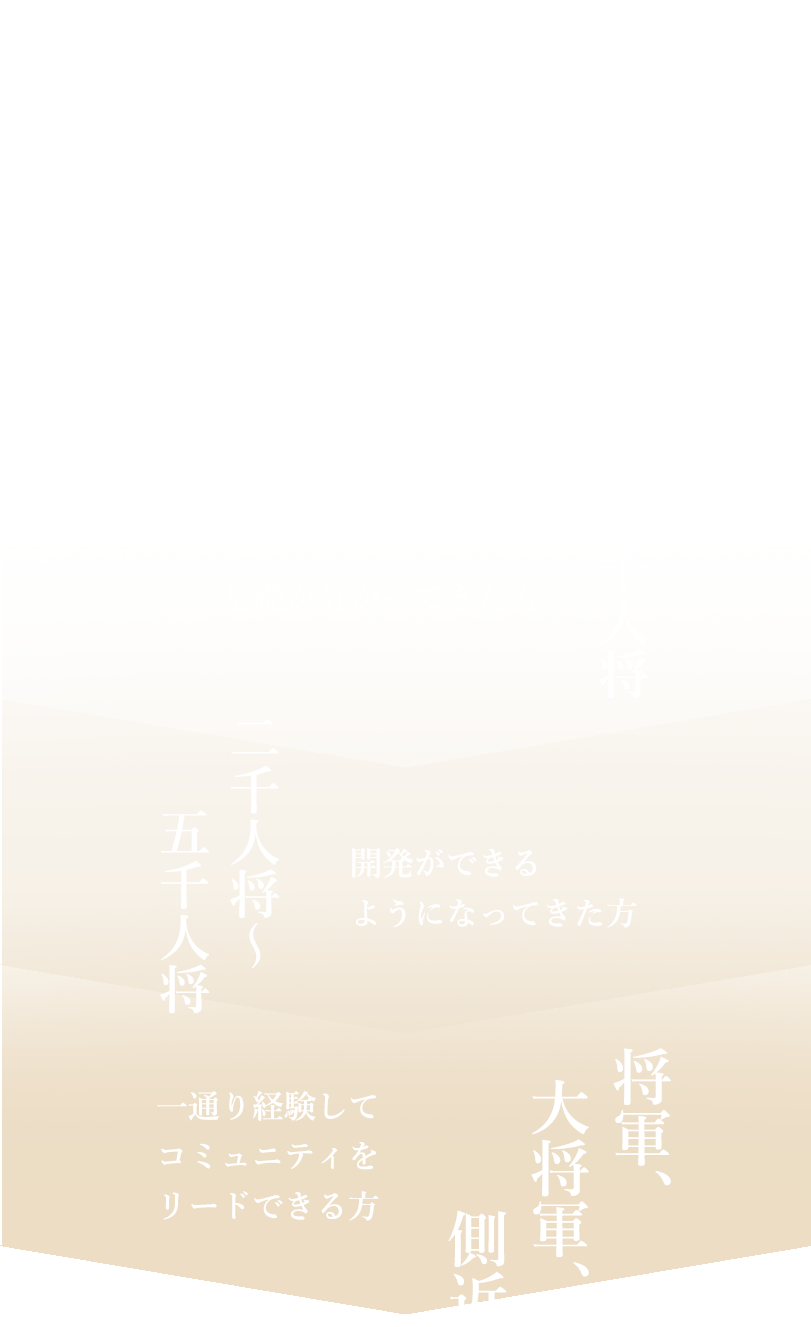
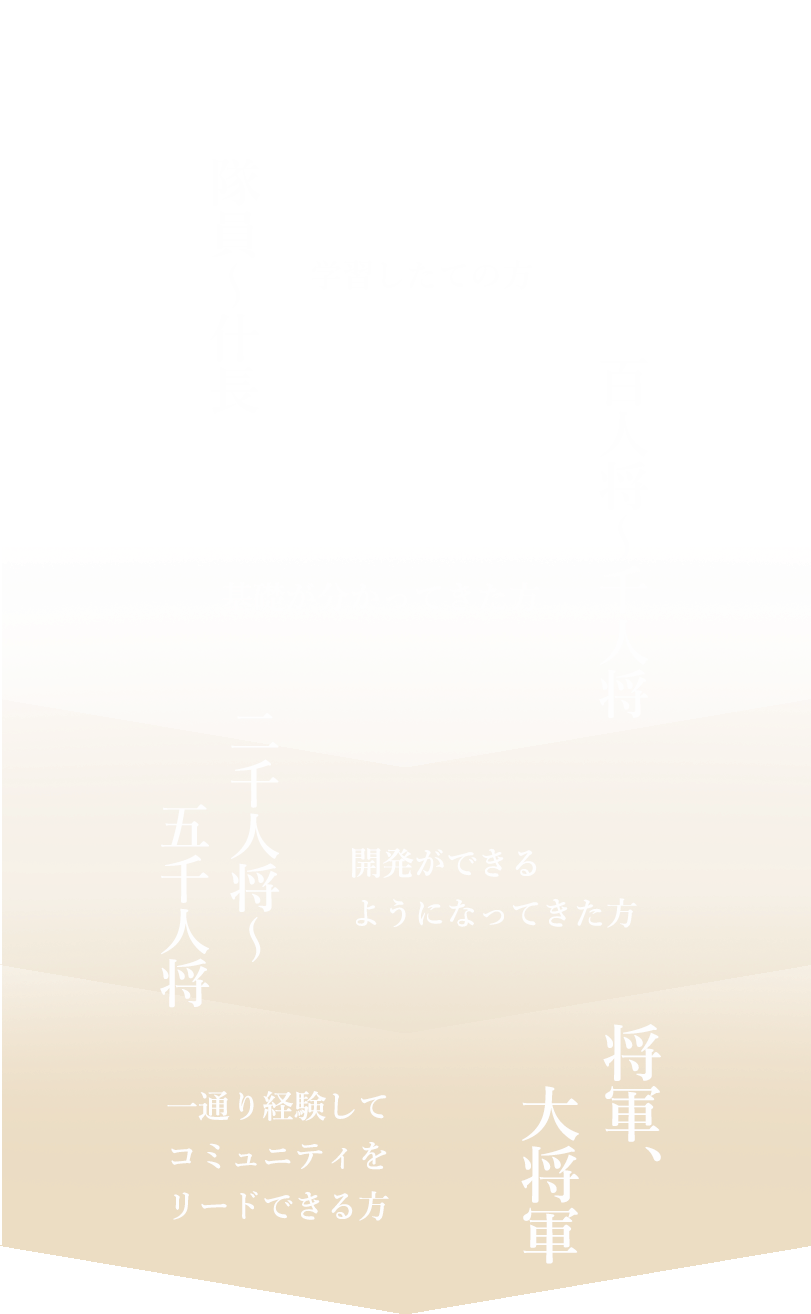
:lipstick: Update the UI and style files.

diff --git a/src/components/footer/index.tsx b/src/components/footer/index.tsx
@@ -1,0 +1,29 @@
+import clsx from "clsx";
+import Link from "next/link";
+import styles from "src/components/footer/index.module.scss";
+
+const ITEMS = [
+  { href: "", label: "利用規約" },
+  { href: "", label: "プライバシーポリシー" },
+  { href: "", label: "特定商取引法に基づく表記" },
+  { href: "", label: "お問い合わせ" },
+];
+
+export function Footer(): JSX.Element {
+  return (
+    <footer className={clsx("sansSerif", styles.container)}>
+      <ul className={styles.links}>
+        {ITEMS.map(({ href, label }) => (
+          <li key={label} className={styles.link}>
+            <Link href={href}>
+              <a>{label}</a>
+            </Link>
+          </li>
+        ))}
+      </ul>
+      <small className={styles.copyright} lang="en">
+        @ 2020 IT KINGDOM
+      </small>
+    </footer>
+  );
+}

diff --git a/src/pages/index.tsx b/src/pages/index.tsx
@@ -3,6 +3,7 @@ import { ConceptVideo } from "src/components/concept-video";
 import { Contents } from "src/components/contents";
 import { Entry } from "src/components/entry";
 import { FirstView } from "src/components/first-view";
+import { Footer } from "src/components/footer";
 import { Global } from "src/components/global";
 import { Header } from "src/components/header";
 import { Members } from "src/components/members";
@@ -24,6 +25,7 @@ export default function IndexPage(props: Props): JSX.Element {
       <Members />
       <MessagePrice />
       <Entry />
+      <Footer />
     </Global>
   );
 }

diff --git a/src/components/footer/index.module.scss b/src/components/footer/index.module.scss
@@ -1,0 +1,37 @@
+.container {
+  width: min(92%, 940px);
+  text-align: center;
+  padding: 40px 0 24px;
+  margin: 0 auto;
+  color: #9f9f9f;
+}
+
+.links {
+  display: inline-grid;
+  grid-gap: 12px;
+}
+
+.link {
+  display: contents;
+  > a {
+    font-size: 0.9rem;
+    color: inherit;
+    text-decoration: none;
+    &:hover {
+      text-decoration: underline;
+    }
+  }
+}
+
+.copyright {
+  display: block;
+  margin-top: 24px;
+}
+
+@media (min-width: 680px) {
+  .links {
+    display: inline-grid;
+    grid-template-columns: auto auto auto auto;
+    grid-gap: 20px;
+  }
+}

diff --git a/src/components/step/index.module.scss b/src/components/step/index.module.scss
@@ -33,7 +33,7 @@
 }
 
 .step {
-  margin: calc(-7vw - 2vh) 0 0 4%;
+  margin: calc(-8vw - 3vh) 0 0 4%;
   width: 80%;
   max-width: 400px;
   height: auto;
@@ -101,7 +101,7 @@
     font-size: min(5vw, 3.2rem);
   }
   .step {
-    margin: -40px min(3%, 40px);
+    margin: -60px min(3%, 40px);
     width: min(40vw, 340px);
   }
 }
